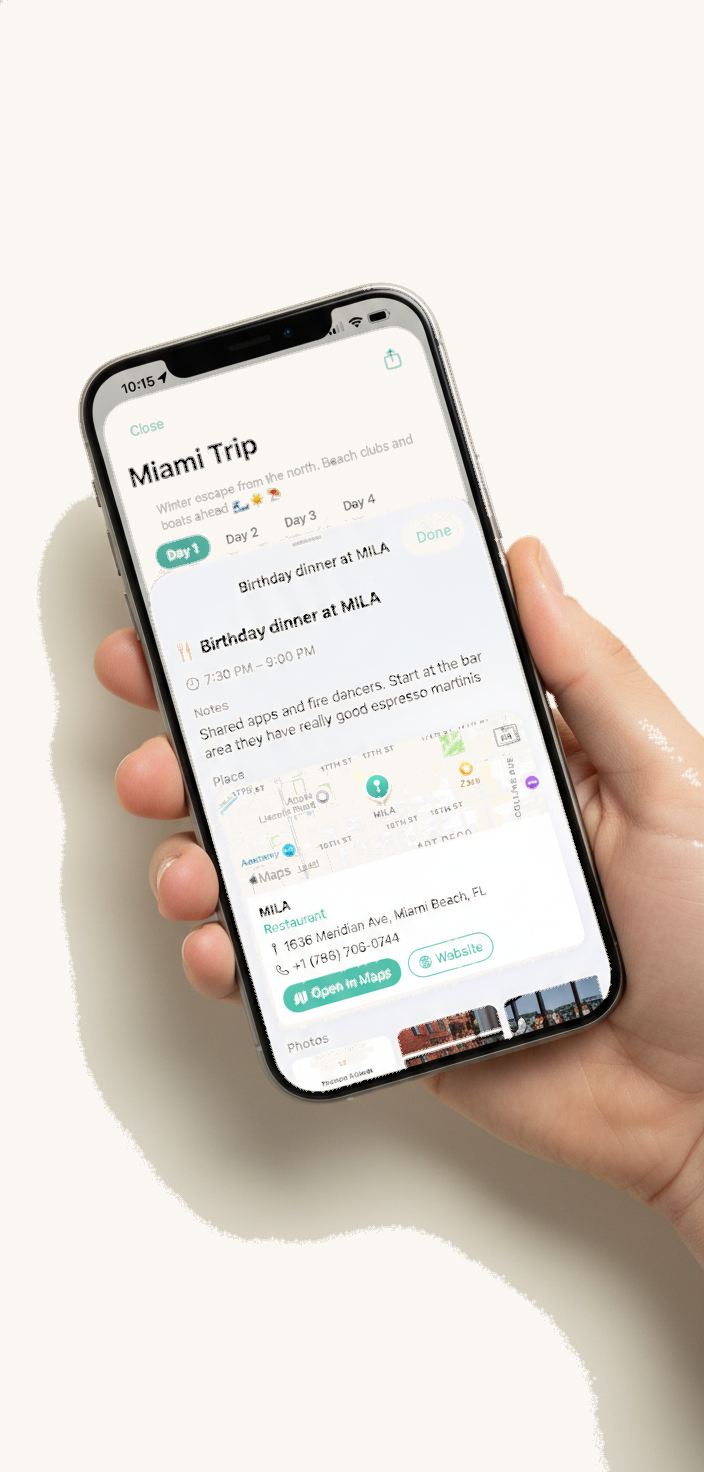
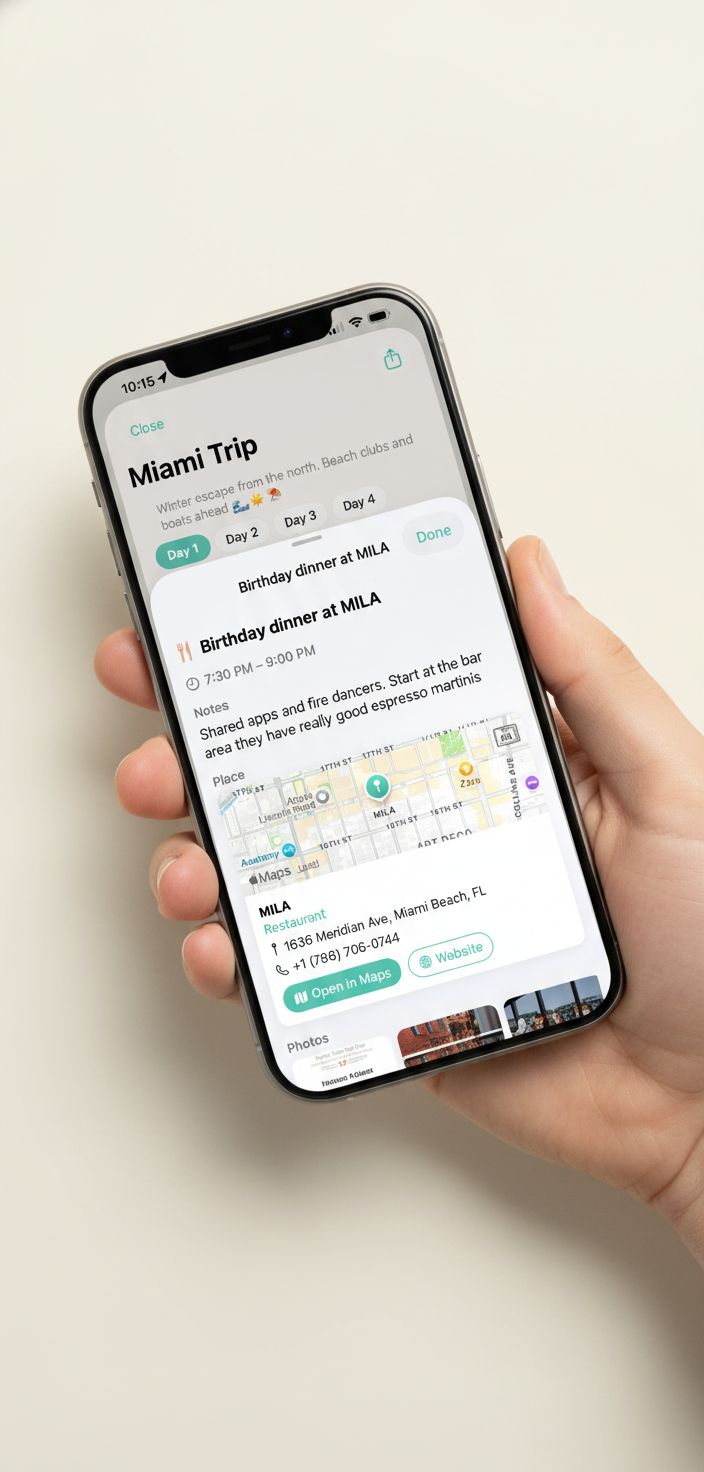
restore untouched hero image and match page bg to its cream
Reverts post-processing that smudged the hand. The hero section
background now matches the exact warm cream baked into the image
(#E8E3D6) so the section reads as one seamless cream from edge to
edge without modifying the image at all.

diff --git a/assets/style.css b/assets/style.css
@@ -317,7 +317,7 @@ img { display: block; max-width: 100%; }
 .hero-bg {
   position: absolute;
   inset: 0;
-  background: #FAF6F2;
+  background: #E8E3D6; /* exact-match the cream baked into places-hero.png */
 }
 
 /* Orbs disabled to keep the hero a uniform cream */
